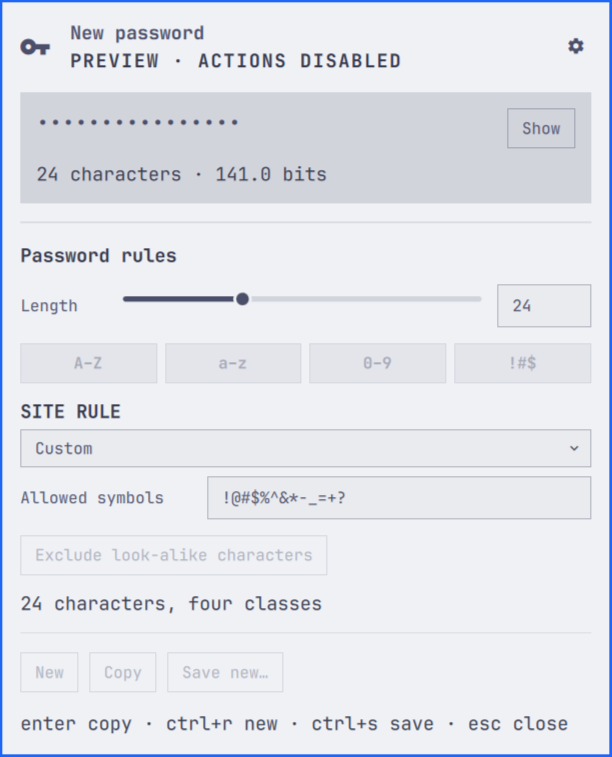
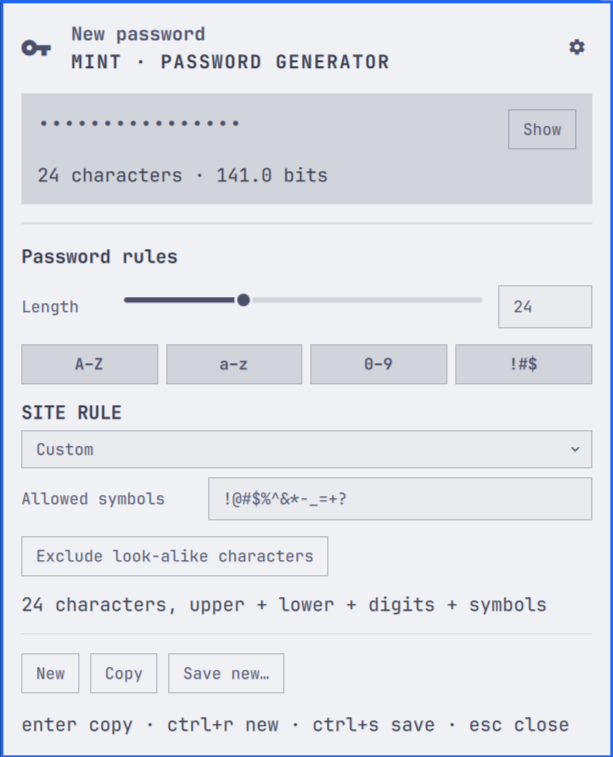
Replace demo preview with installed panel and record live proof

diff --git a/docs/VERIFICATION.md b/docs/VERIFICATION.md
@@ -1,47 +1,35 @@
 # Verification
 
-- Mint base: merged `main`, `f9ed322`.
-- Core and CLI tests: 33 passed with `MINT_OP=/usr/bin/false`.
-- Linux release: CLI and Tauri window compiled on Arch Linux.
-- Installed CLI and window hashes matched build outputs.
-- Clipboard proof: copied password hash absent from 289 Quattro text entries; existing entry matched as the reader's positive control.
-- Clipboard offers `x-kde-passwordManagerHint`; five-second conditional clear passed.
-- 1Password proof: item-list preflight failed with authorization prompt dismissed; no item created. Save/delete proof remains untested.
-- UI review: first-party layout retained; save action explicitly creates a different password; uncertain outcomes require checking 1Password.
-- Bridge: 18 stub tests passed, including bounded output, pipe-only secrets and no sensitive-copy fallback after save.
-- Model: five tests cover malformed responses, metadata limits, settings bounds and exact preset identity.
-- Offscreen Quickshell: eight cases pass, including actual request I/O, malformed/oversized streams, cancellation, generation/presets, preview isolation and panel ownership.
-- Native bar and panel instantiate offscreen against installed first-party components; visual and keyboard behavior remains unverified.
-- Real bridge: generated password and clipboard matched; three-second conditional clear passed.
-- Linux toggle fix: the same window address cycles shown, absent, shown; keyboard focus remains untested while locked.
-- Super+Ctrl+M: bound in dotfiles; reload reports no configuration errors.
-- Plugin installed from its public Git URL and enabled; active=false pending shell restart after unlock.
-- Live multi-monitor, keyboard and light/dark panel captures remain untested while the desktop is locked.
-- Local manifest validation and QML lint passed.
-- Local marketplace static detection reported no findings; remote exact-commit review remains unperformed.
+## Installed proof — 2026-10-05
 
-## Open verification
+- Installed plugin: normal default-branch update to `5da19ca6f471f425da905820b2637d37f9b2292d`, followed by Omarchy shell restart.
+- Engine: Arch package `mint 0.1.0-2`, compiled in a clean chroot from release merge `0c4aed5bf5e195b2f08421b012e9d64c358eb414`.
+- Package: both binaries, desktop entry and icon have verified pacman ownership and match the package byte for byte; obsolete local binaries are removed through trash.
+- Package checks: 47 tests pass with two Cargo jobs and the 1Password stub. Namcap has no errors or implicit-dependency warnings; four retained runtime-dependency warnings have documented uses.
+- [Arch packaging evidence](https://github.com/steveclarke/mint/pull/5) records the package contents, checksum and retained warnings.
+- Native Wayland class: `mint-app`, matching `StartupWMClass`; X11 `WM_CLASS` does not apply to this native Wayland run.
+- Super+Ctrl+M: five physical-key hide/show transitions pass, with focus on each show and the same application process throughout.
+- Native captures: ten stand-in service states and the save form in both the active light palette and the stock Catppuccin dark palette; normal generation, copied state and settings also have installed captures.
+- Monitors: the native bar opens the panel on both 2880 × 1620 logical displays.
+- Preview: actual installed panel in normal operation, masked generated password, no demo banner; all four borders inspected at zoom.
+- Theme cleanup: the runtime theme API restores the exact original palette; theme files remain unchanged.
+- Clipboard: native panel Copy advertises the sensitive MIME hint; its hash is absent from 289 text-history entries. An existing-entry positive control and an injected in-memory match both pass.
+- Auto-clear: clipboard becomes empty after 44.78 seconds under the default 45-second setting; panel closure discards its password.
+- Test cleanup: temporary input devices are closed, pointer position restored, clipboard empty, and panel state idle with demo off and no retained password.
+- Scope: smaller-screen runtime fit remains untested.
 
-- [Unlocked desktop checks](https://github.com/steveclarke/omarchy-mint/issues/1), dated 2026-10-05.
-- [Real save and cleanup proof](https://github.com/steveclarke/omarchy-mint/issues/2), dated 2026-10-05.
-- [Linux toggle and Arch packaging](https://github.com/steveclarke/mint/pull/4): source readiness is independent of pending installation proof.
+## Source checks
 
-## Review repair evidence — 2026-10-05
-
-- Mint source: `4d545c8`; shared stdin copy, fixed Wayland executable paths, bounded I/O and acknowledged clearer startup.
-- Bridge: 18 stubbed tests pass; no production executable override hooks.
+- Bridge: 22 stubbed tests pass, including bounded output, pipe-only secrets, executable resolution, copy error classes and malformed responses.
 - Model: six tests pass, including DEL, C1 and bidi controls across labels, identities and passwords.
-- Offscreen Quickshell: 11 cases pass, including busy-preview refusal, cancelled-save uncertainty and preview-state cycling.
-- Native component loading, manifest validation and QML lint pass.
-- Grep audit: runtime text sinks explicitly use PlainText; host labels use fixed or cleaned strings; output collection and filesystem-write hits belong to test/tooling code. No network or privilege-command matches in the scanned plugin tree.
-- Preview: the existing 612 × 757 capture contains the demo banner. The final capture from the live installed panel without the banner remains pending installation.
-- Installed repair, package/chroot proof, full live-state sweep and real-item save/delete proof remain pending.
+- Offscreen Quickshell: 11 cases pass, including actual request I/O, oversized streams, cancellation, panel ownership, busy-preview refusal and cancelled-save uncertainty.
+- Native component loading, manifest validation, QML lint and repository hygiene pass.
+- Automated test commands set `MINT_OP=/usr/bin/false`; stand-in panel states cannot invoke vault operations.
+- Runtime text sinks explicitly use PlainText; host labels are fixed or cleaned. Output collection and filesystem-write matches belong to test/tooling code.
+- Prior runtime-source marketplace baseline: `23a0360f76ff442702b65be03d0ed9fe07de2bb0`, passed with no findings or capabilities. Updated evidence commits require their own exact-commit baseline.
 
-## Source follow-up evidence — 2026-10-05
+## Real-account proof
 
-- Copy failures retain the bridge's missing-command, timeout, overflow, process-failure and response classes. Mint JSON stderr contributes only known kind/exit-code pairs; messages are fixed, with no stderr or secret echo.
-- Bridge: 22 stubbed tests pass, including missing Mint, all copy failure classes, malformed success responses and hostile JSON stderr.
-- Model: six tests pass. Offscreen Quickshell: 11 cases pass; native components, manifest validation and QML lint pass.
-- Grep audit: every git-tracked file is scanned, with positive controls and no depth or size exclusions. QML text sinks have explicit formats; host labels are fixed or cleaned. Filesystem-write and whole-output collection matches belong to tests and tooling. Network and privilege patterns have no matches in this scope.
-- Final preview: pending installation; the existing demo-banner capture does not satisfy the final-preview requirement.
-- Installation proof: package/chroot checks, StartupWMClass, updated-plugin live states and real-item save/delete remain pending.
+- [Save and cleanup follow-up](https://github.com/steveclarke/omarchy-mint/issues/2), dated 2026-10-05: the deliberate proof stops at the duplicate-title search because desktop authorization is dismissed.
+- Creation attempts: zero. No item is created, no deletion is required, and no password reaches logs or captures.
+- Remaining proof: one installed panel-path save of `mint test (delete me)` in Employee, immediate deletion, and verified absence.
